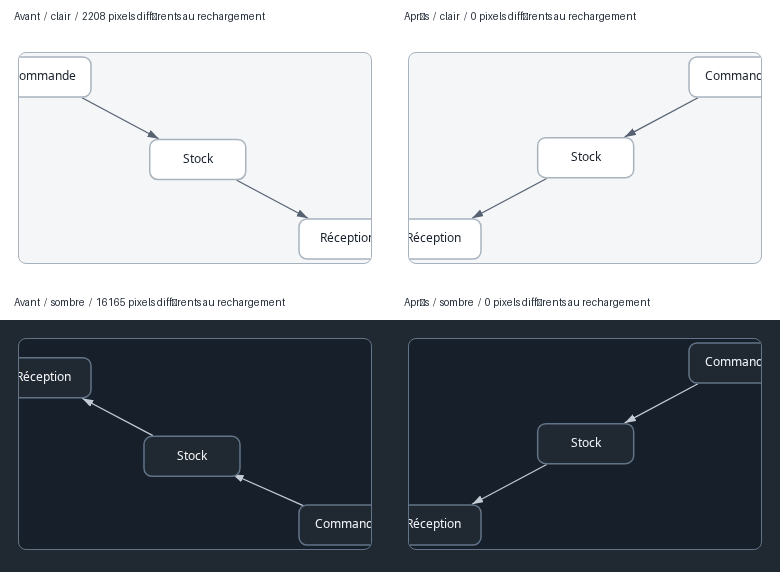
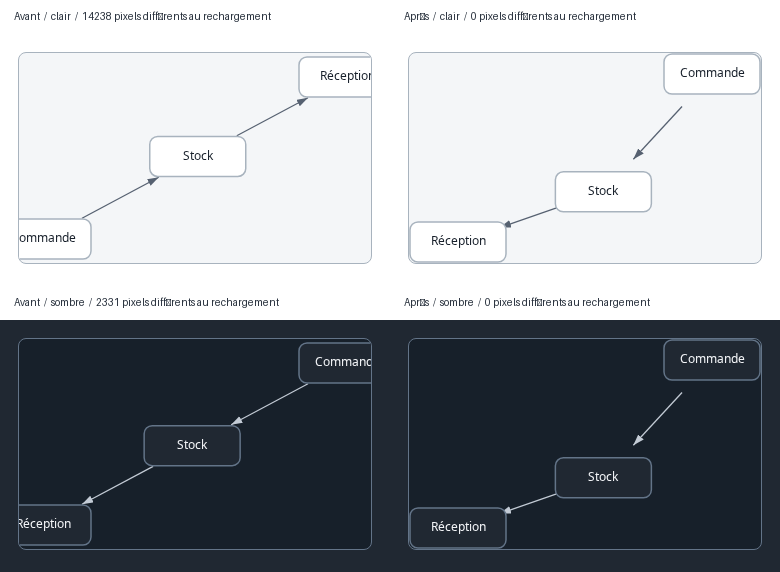
fix(relationGraph): garder les boîtes entières dans la vue

diff --git a/components/bpm/RelationGraph.tsx b/components/bpm/RelationGraph.tsx
@@ -138,8 +138,12 @@ function forceLayout(nodes: GraphNode[], edges: GraphEdge[], w: number, h: numbe
       const lim = Math.min(mag, t * Math.min(w, h)) / mag;
       pos[node.id].x += d.x * lim;
       pos[node.id].y += d.y * lim;
-      pos[node.id].x = Math.max(24, Math.min(w - 24, pos[node.id].x));
-      pos[node.id].y = Math.max(24, Math.min(h - 24, pos[node.id].y));
+      const size = nodeSize(node);
+      // Keep the whole box and its stroke visible. Centre a box wider than the viewport.
+      const marginX = Math.min(w / 2, size.w / 2 + 1);
+      const marginY = Math.min(h / 2, size.h / 2 + 1);
+      pos[node.id].x = Math.max(marginX, Math.min(w - marginX, pos[node.id].x));
+      pos[node.id].y = Math.max(marginY, Math.min(h - marginY, pos[node.id].y));
     }
   }
   for (const node of nodes) out[node.id] = { ...pos[node.id] };
@@ -179,7 +183,7 @@ export function RelationGraph({
   className = "",
 }: RelationGraphProps) {
   const sig = useMemo(() => JSON.stringify([
-    layout, width, height, nodes.map(n => n.id), edges.map(e => [e.from, e.to]),
+    layout, width, height, nodes.map(n => [n.id, n.width, n.height]), edges.map(e => [e.from, e.to]),
   ]), [layout, width, height, nodes, edges]);
 
   const computed = useMemo(

diff --git a/packages/core/gate/relation-graph-layout.test.tsx b/packages/core/gate/relation-graph-layout.test.tsx
@@ -31,3 +31,21 @@ it("recomputes coordinates when the viewport changes", () => {
   expect(geometry(view.container)).not.toEqual(before);
   expect(geometry(view.container)).toEqual(geometry(render(scene(260)).container));
 });
+
+it("keeps each force-layout box inside a narrow view, including after node widths change", () => {
+  const scene = (width: number) => (
+    <RelationGraph width={352} height={210} edges={edges} nodes={nodes.map(n => ({ ...n, width }))} />
+  );
+  const view = render(scene(96));
+  for (const width of [96, 130]) {
+    view.rerender(scene(width));
+    for (const rect of view.container.querySelectorAll("g[transform] > rect[rx]")) {
+      const transform = rect.parentElement!.getAttribute("transform")!;
+      const [, x, y] = /translate\(([^,]+),([^)]+)\)/.exec(transform)!;
+      expect(Number(x)).toBeGreaterThanOrEqual(0);
+      expect(Number(x) + width).toBeLessThanOrEqual(352);
+      expect(Number(y)).toBeGreaterThanOrEqual(0);
+      expect(Number(y) + 40).toBeLessThanOrEqual(210);
+    }
+  }
+});
